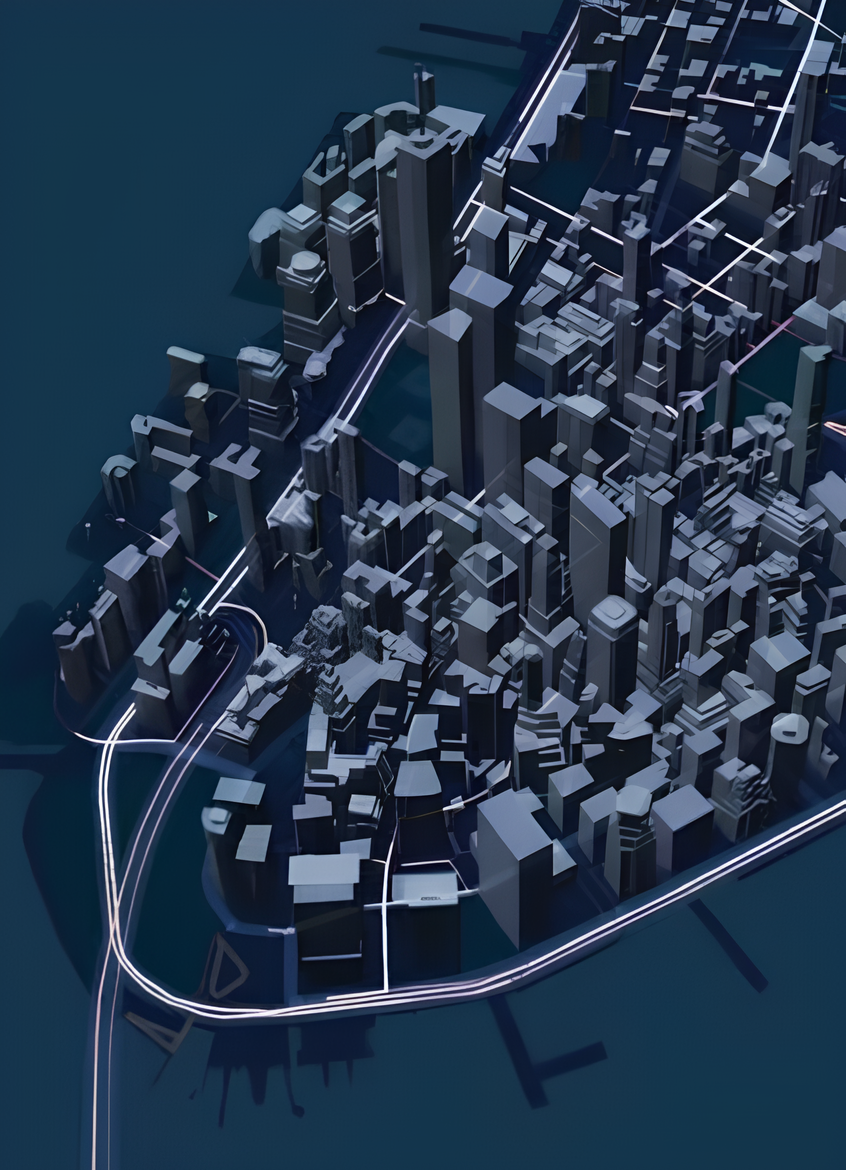
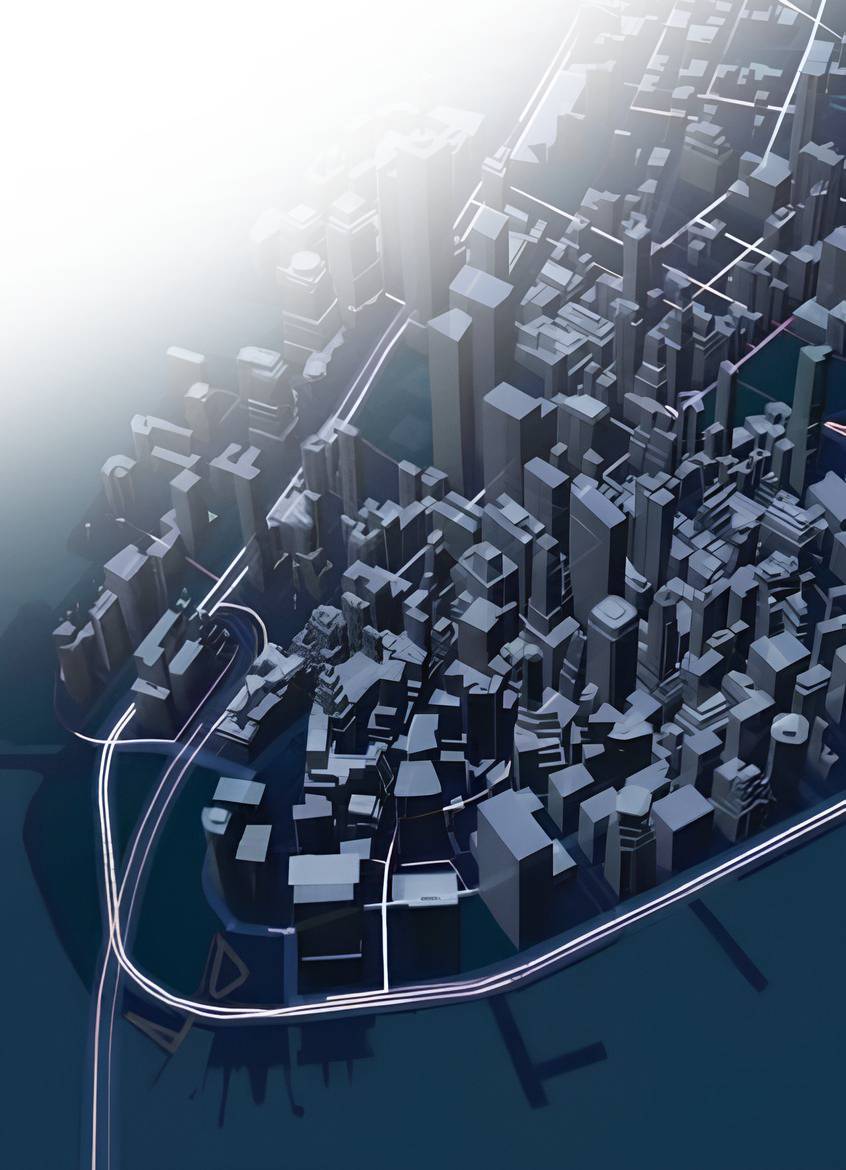
finishe background

diff --git a/src/Pages/Home/index.tsx b/src/Pages/Home/index.tsx
@@ -1,16 +1,40 @@
 import { styles } from './styles';
 import { Text, View, ImageBackground } from 'react-native';
-import {} from 'expo';
+import { LinearGradient } from 'expo-linear-gradient';
 
 export function Home() {
   return (
     <View style={styles.background}>
-      <ImageBackground
-        source={require('../../Assets/backgroundImg.png')}
-        resizeMode="cover"
-        style={styles.bgImg}
-      ></ImageBackground>
-      <Text>treinar bora!</Text>
+      <LinearGradient
+        colors={['rgba(19, 38, 47, 1)', 'rgba(18, 138, 152, 1)']}
+        style={styles.gradient}
+        start={{ x: 0, y: 0 }} // Ponto inicial (canto superior esquerdo)
+        end={{ x: 1, y: 1 }}
+      >
+        <ImageBackground //imagem do fundo
+          source={require('../../Assets/backgroundImg.png')}
+          resizeMode="cover"
+          style={styles.bgImg}
+        ></ImageBackground>
+
+        <LinearGradient
+          colors={[
+            'rgba(19, 38, 47, 1)',
+            'rgba(18, 138, 152, .8)',
+            'rgba(18, 138, 152, 0.43)',
+          ]}
+          locations={[0, 0.5, 1]} // Define os stops (0%, 50%, 100%)
+          style={styles.gradient}
+          start={{ x: 0, y: 0 }} // Ponto inicial (canto superior esquerdo)
+          end={{ x: 1, y: 1 }}
+        >
+          <ImageBackground
+            source={require('../../Assets/LogoWhite.png')}
+            resizeMode="cover"
+            style={styles.whiteLogo}
+          ></ImageBackground>
+        </LinearGradient>
+      </LinearGradient>
     </View>
   );
 }

diff --git a/src/Colors/colors.ts b/src/Colors/colors.ts
@@ -1,10 +1,10 @@
 
-#13262F // azul 900
-#128A98 // azul 500
-#2E9B71 // verde 500
-#FEFEFE // cinza 100
-#D1D5D6 // cinza 300
-#8E8E8E // Cinza 500
+#13262F // azul 900 -> rgba(19, 38, 47, 1)
+#128A98 // azul 500 -> rgba(18, 138, 152, 1)
+#2E9B71 // verde 500 -> rgba(46, 155, 113, 1)
+#FEFEFE // cinza 100 -> rgba(254, 254, 254, 1)
+#D1D5D6 // cinza 300 -> rgba(209, 213, 214, 1)
+#8E8E8E // cinza 500 -> rgba(142, 142, 142, 1)
 
 
 

diff --git a/src/Pages/Home/styles.ts b/src/Pages/Home/styles.ts
@@ -14,4 +14,14 @@ export const styles = StyleSheet.create({
     bottom: 0,
     alignSelf: 'center',
   },
+  gradient: {
+    flex: 1,
+  },
+
+  whiteLogo: {
+    width: 287,
+    height: 347,
+    marginTop: '50%',
+    alignSelf: 'center',
+  },
 });
